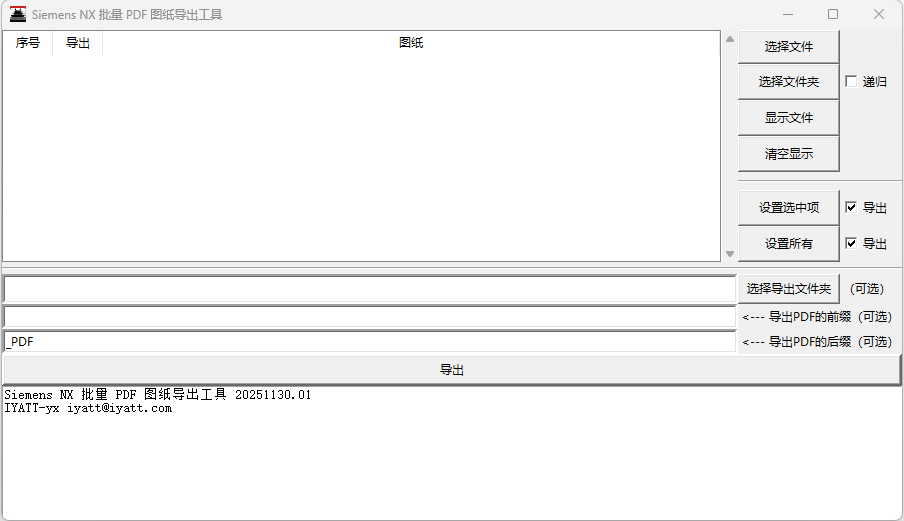
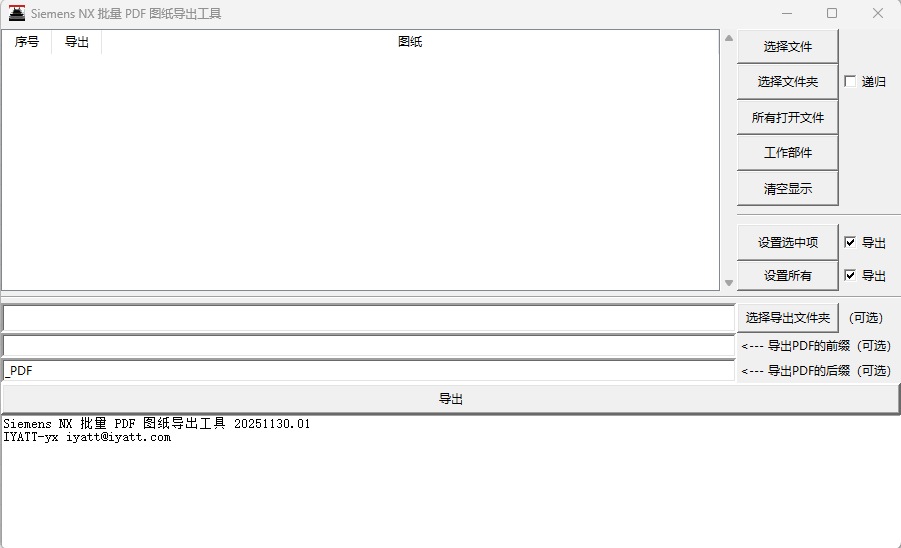
新增直接获取工作部件；消除执行导出期间点击按钮事件；增加开始导出提示；

Changed region(s): [[0.0, 0.0, 1.0, 1.0], [0.9012, 0.0, 0.9323, 0.0307]]

diff --git a/application.py b/application.py
@@ -12,7 +12,7 @@ tclDir = os.path.join(baseDir, 'tcl', 'tcl8.6')
 os.environ["TCL_LIBRARY"] = tclDir
 
 class Application(tk.Frame):
-    def __init__(self, root):
+    def __init__(self, root: tk.Tk):
         super().__init__(root)
         self.root = root
         self.pack(fill=tk.BOTH, expand=True)
@@ -25,43 +25,45 @@ class Application(tk.Frame):
 
     def createWidgets(self):
         self.prtListShow = PrtListShow(self)
-        self.prtListShow.grid(row=0, column=0, rowspan=7, sticky=tk.NSEW)
+        self.prtListShow.grid(row=0, column=0, rowspan=8, sticky=tk.NSEW)
 
         tk.Button(self, text='选择文件', command=self.onGetSelectedPrts).grid(row=0, column=1, sticky=tk.NSEW)
         tk.Button(self, text='选择文件夹', command=self.onGetPrtsFromSelectedFolder).grid(row=1, column=1, sticky=tk.NSEW)
-        tk.Button(self, text='显示文件', command=self.onGetOpenedPrts).grid(row=2, column=1, sticky=tk.NSEW)
-        tk.Button(self, text='清空显示', command=self.prtListShow.clear).grid(row=3, column=1, sticky=tk.NSEW)
-        ttk.Separator(self, orient=tk.HORIZONTAL).grid(row=4, column=1, columnspan=2, sticky=tk.EW, pady=5)
+        tk.Button(self, text='所有打开文件', command=self.onGetOpenedPrts).grid(row=2, column=1, sticky=tk.NSEW)
+        tk.Button(self, text='工作部件', command=self.onWorkPrt).grid(row=3, column=1, sticky=tk.NSEW)
+        tk.Button(self, text='清空显示', command=self.prtListShow.clear).grid(row=4, column=1, sticky=tk.NSEW)
+        ttk.Separator(self, orient=tk.HORIZONTAL).grid(row=5, column=1, columnspan=2, sticky=tk.EW, pady=5)
 
-        tk.Button(self, text='设置选中项', command=self.onSetSelectedStatus).grid(row=5, column=1, sticky=tk.NSEW)
-        tk.Button(self, text='设置所有', command=self.onSetAllStatus).grid(row=6, column=1, sticky=tk.NSEW)
+        tk.Button(self, text='设置选中项', command=self.onSetSelectedStatus).grid(row=6, column=1, sticky=tk.NSEW)
+        tk.Button(self, text='设置所有', command=self.onSetAllStatus).grid(row=7, column=1, sticky=tk.NSEW)
         
         self.recursiveValue = tk.BooleanVar(self, value=False)
         tk.Checkbutton(self, text='递归', variable=self.recursiveValue).grid(row=1, column=2, sticky=tk.W)
         self.selectedStatusValue = tk.BooleanVar(self, value=True)
-        tk.Checkbutton(self, text='导出', variable=self.selectedStatusValue).grid(row=5, column=2, sticky=tk.W)
+        tk.Checkbutton(self, text='导出', variable=self.selectedStatusValue).grid(row=6, column=2, sticky=tk.W)
         self.allStatusValue = tk.BooleanVar(self, value=True)
-        tk.Checkbutton(self, text='导出', variable=self.allStatusValue).grid(row=6, column=2, sticky=tk.W)
+        tk.Checkbutton(self, text='导出', variable=self.allStatusValue).grid(row=7, column=2, sticky=tk.W)
 
-        ttk.Separator(self, orient=tk.HORIZONTAL).grid(row=7, column=0, columnspan=3, sticky=tk.EW, pady=5)
+        ttk.Separator(self, orient=tk.HORIZONTAL).grid(row=8, column=0, columnspan=3, sticky=tk.EW, pady=5)
 
         self.exportFolderValue = tk.StringVar(self, value='')
-        tk.Entry(self, textvariable=self.exportFolderValue, bd=3).grid(row=8, column=0, sticky=tk.NSEW)
-        tk.Button(self, text='选择导出文件夹', command=self.onSelectExportFolder).grid(row=8, column=1, sticky=tk.NSEW)
-        tk.Label(self, text='（可选）').grid(row=8, column=2, sticky=tk.W)
+        tk.Entry(self, textvariable=self.exportFolderValue, bd=3).grid(row=9, column=0, sticky=tk.NSEW)
+        tk.Button(self, text='选择导出文件夹', command=self.onSelectExportFolder).grid(row=9, column=1, sticky=tk.NSEW)
+        tk.Label(self, text='（可选）').grid(row=9, column=2, sticky=tk.W)
 
         self.prefixNameValue = tk.StringVar(self, value='')
-        tk.Entry(self, textvariable=self.prefixNameValue,  bd=3).grid(row=9, column=0, sticky=tk.NSEW)
-        tk.Label(self, text='<--- 导出PDF的前缀（可选）').grid(row=9, column=1, columnspan=2, sticky=tk.W)
+        tk.Entry(self, textvariable=self.prefixNameValue,  bd=3).grid(row=10, column=0, sticky=tk.NSEW)
+        tk.Label(self, text='<--- 导出PDF的前缀（可选）').grid(row=10, column=1, columnspan=2, sticky=tk.W)
 
         self.suffixNameValue = tk.StringVar(self, value='_PDF')
-        tk.Entry(self, textvariable=self.suffixNameValue, bd=3).grid(row=10, column=0, sticky=tk.NSEW)
-        tk.Label(self, text='<--- 导出PDF的后缀（可选）').grid(row=10, column=1, columnspan=2, sticky=tk.W)
+        tk.Entry(self, textvariable=self.suffixNameValue, bd=3).grid(row=11, column=0, sticky=tk.NSEW)
+        tk.Label(self, text='<--- 导出PDF的后缀（可选）').grid(row=11, column=1, columnspan=2, sticky=tk.W)
 
-        tk.Button(self, text='导出', command=self.onExport, bd=3).grid(row=11, column=0, columnspan=3, sticky=tk.NSEW)
+        self.exportButton = tk.Button(self, text='导出', command=self.onExport, bd=3)
+        self.exportButton.grid(row=12, column=0, columnspan=3, sticky=tk.NSEW)
 
         self.msgText = tk.Text(self, wrap=tk.CHAR, height=10, state=tk.DISABLED)
-        self.msgText.grid(row=12, column=0, columnspan=3, sticky=tk.NSEW)
+        self.msgText.grid(row=13, column=0, columnspan=3, sticky=tk.NSEW)
 
 
     def onGetSelectedPrts(self):
@@ -83,6 +85,13 @@ class Application(tk.Frame):
         获取已打开的文件
         """
         prtList = NxModules.getOpenedPrts()
+        self.prtListShow.insertPrtList(prtList)
+
+    def onWorkPrt(self):
+        """
+        获取工作部件
+        """
+        prtList = NxModules.getWorkPrt()
         self.prtListShow.insertPrtList(prtList)
 
     def onSetSelectedStatus(self):
@@ -128,12 +137,16 @@ class Application(tk.Frame):
         exportFolder = self.exportFolderValue.get().strip()
         if exportFolder != '':
             os.makedirs(exportFolder, exist_ok=True)
-        NxModules.foreachPrt(NxModules.exportPdf, prtList, self.prefixNameValue.get(), self.suffixNameValue.get(), exportFolder, self.writeMsg)        
+        self.exportButton.config(state=tk.DISABLED)
+        NxModules.foreachPrt(NxModules.exportPdf, prtList, self.prefixNameValue.get(), self.suffixNameValue.get(), exportFolder, self.writeMsg)
+        # NX 2506 中执行时有异常，必须执行 update，否则按钮禁用状态下的点击也会留到本轮执行结束后继续触发
+        self.update()
+        self.exportButton.config(state=tk.NORMAL)
 
 def run():
     root = tk.Tk()
     width = 900
-    height = 490
+    height = 520
     screenwidth = root.winfo_screenwidth()
     screenheight = root.winfo_screenheight()
     root.geometry(f'{width}x{height}+{int((screenwidth - width) / 2)}+{int((screenheight - height) / 2)}')

diff --git a/nxmodules.py b/nxmodules.py
@@ -58,6 +58,37 @@ class NxModules:
         return prts
     
     @staticmethod
+    def printMsg(msg: str):
+        """
+        在列表窗口中打印消息
+        """
+        session = NXOpen.Session.GetSession()
+        lw = session.ListingWindow
+        if not lw.IsOpen():
+            lw.Open()
+        lw.WriteLine(msg)
+    
+    @staticmethod
+    def getWorkPrt() -> list[str]:
+        """
+        获取当前工作部件
+
+        Returns:
+            list[str]: NX 文件路径列表
+        """
+        try:
+            workPrt = NXOpen.Session.GetSession().Parts.Work
+        except NXOpen.NXException as e:
+            NxModules.printMsg(f'获取当前工作部件失败: {e}')
+            return []
+
+        if workPrt is None:
+            NxModules.printMsg('当前没有工作部件')
+            return []
+
+        return [workPrt.FullPath]
+    
+    @staticmethod
     def foreachPrt(func, prtList: list[str], prefixName: str, suffixName: str, folder: str, writeMsg: Callable):
         """
         对每个 NX 文件执行指定函数
@@ -85,6 +116,8 @@ class NxModules:
                 else:
                     writeMsg(f'打开文件 {prtPath} 失败: {e}')
                     continue
+            else:
+                writeMsg(f'成功打开文件 {prtPath}')
             if func(part, prefixName, suffixName, folder, writeMsg):
                 counter += 1
 
@@ -121,6 +154,7 @@ class NxModules:
                 writeMsg(f'❗{part.Name} 没有图纸')
                 return
             pdfbuilder.SourceBuilder.SetSheets(sheets)
+            writeMsg(f'开始导出 {filename}')
             pdfbuilder.Commit()
             pdfbuilder.Destroy()
         except NXOpen.NXException as e:
